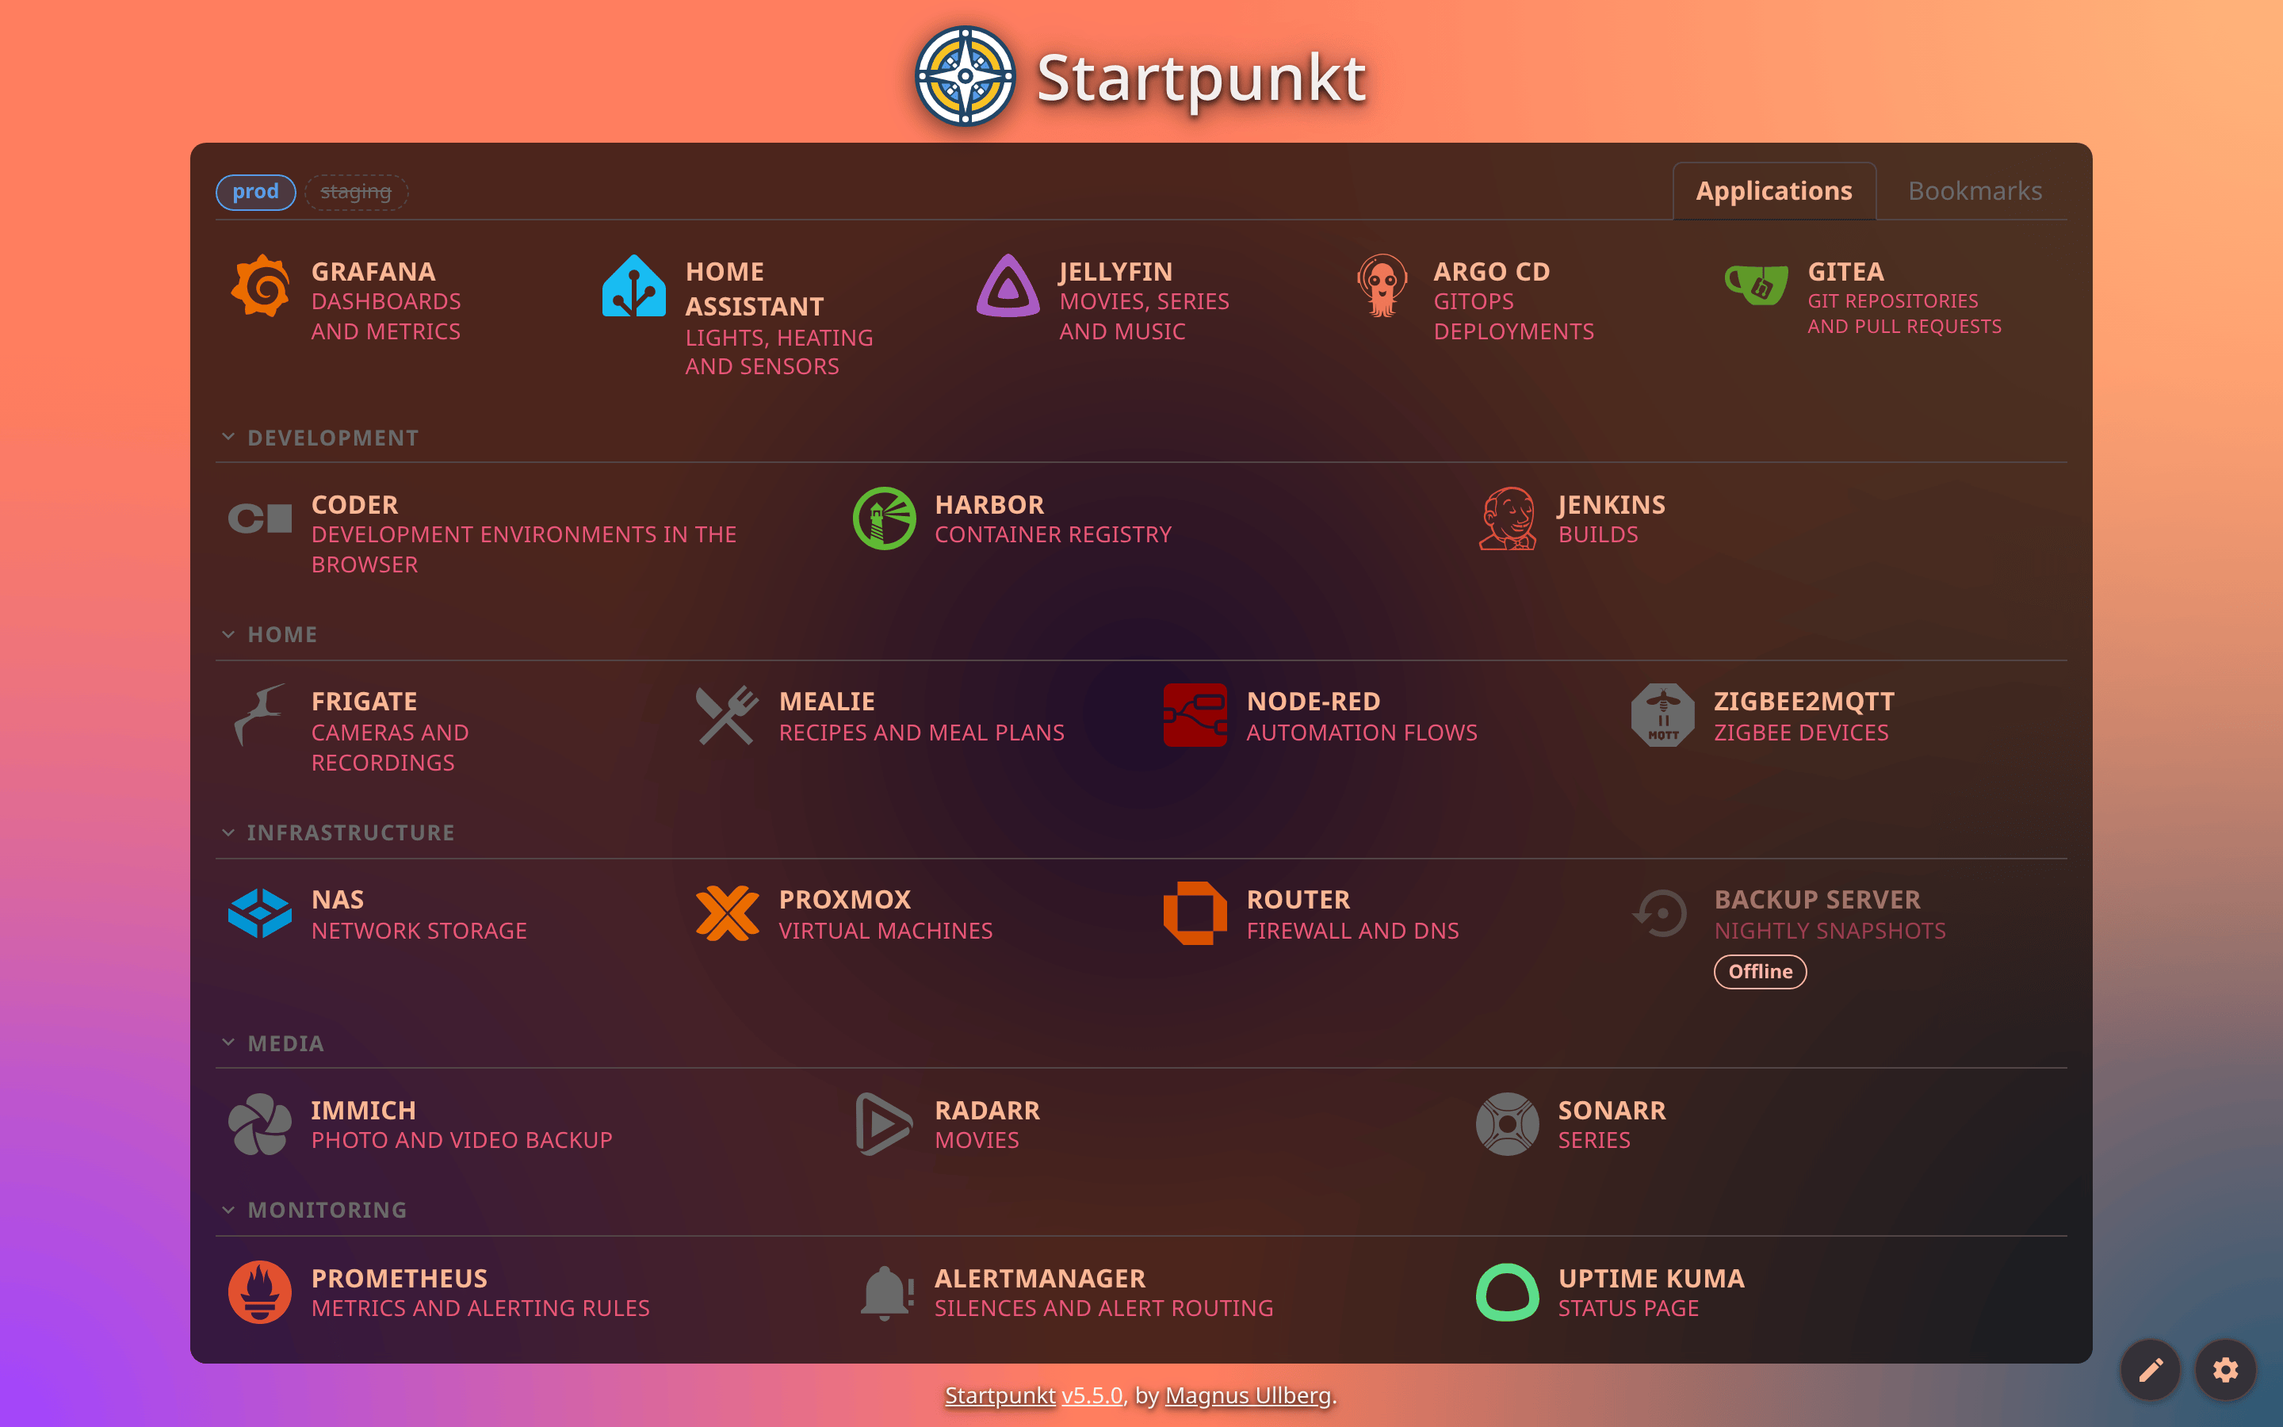
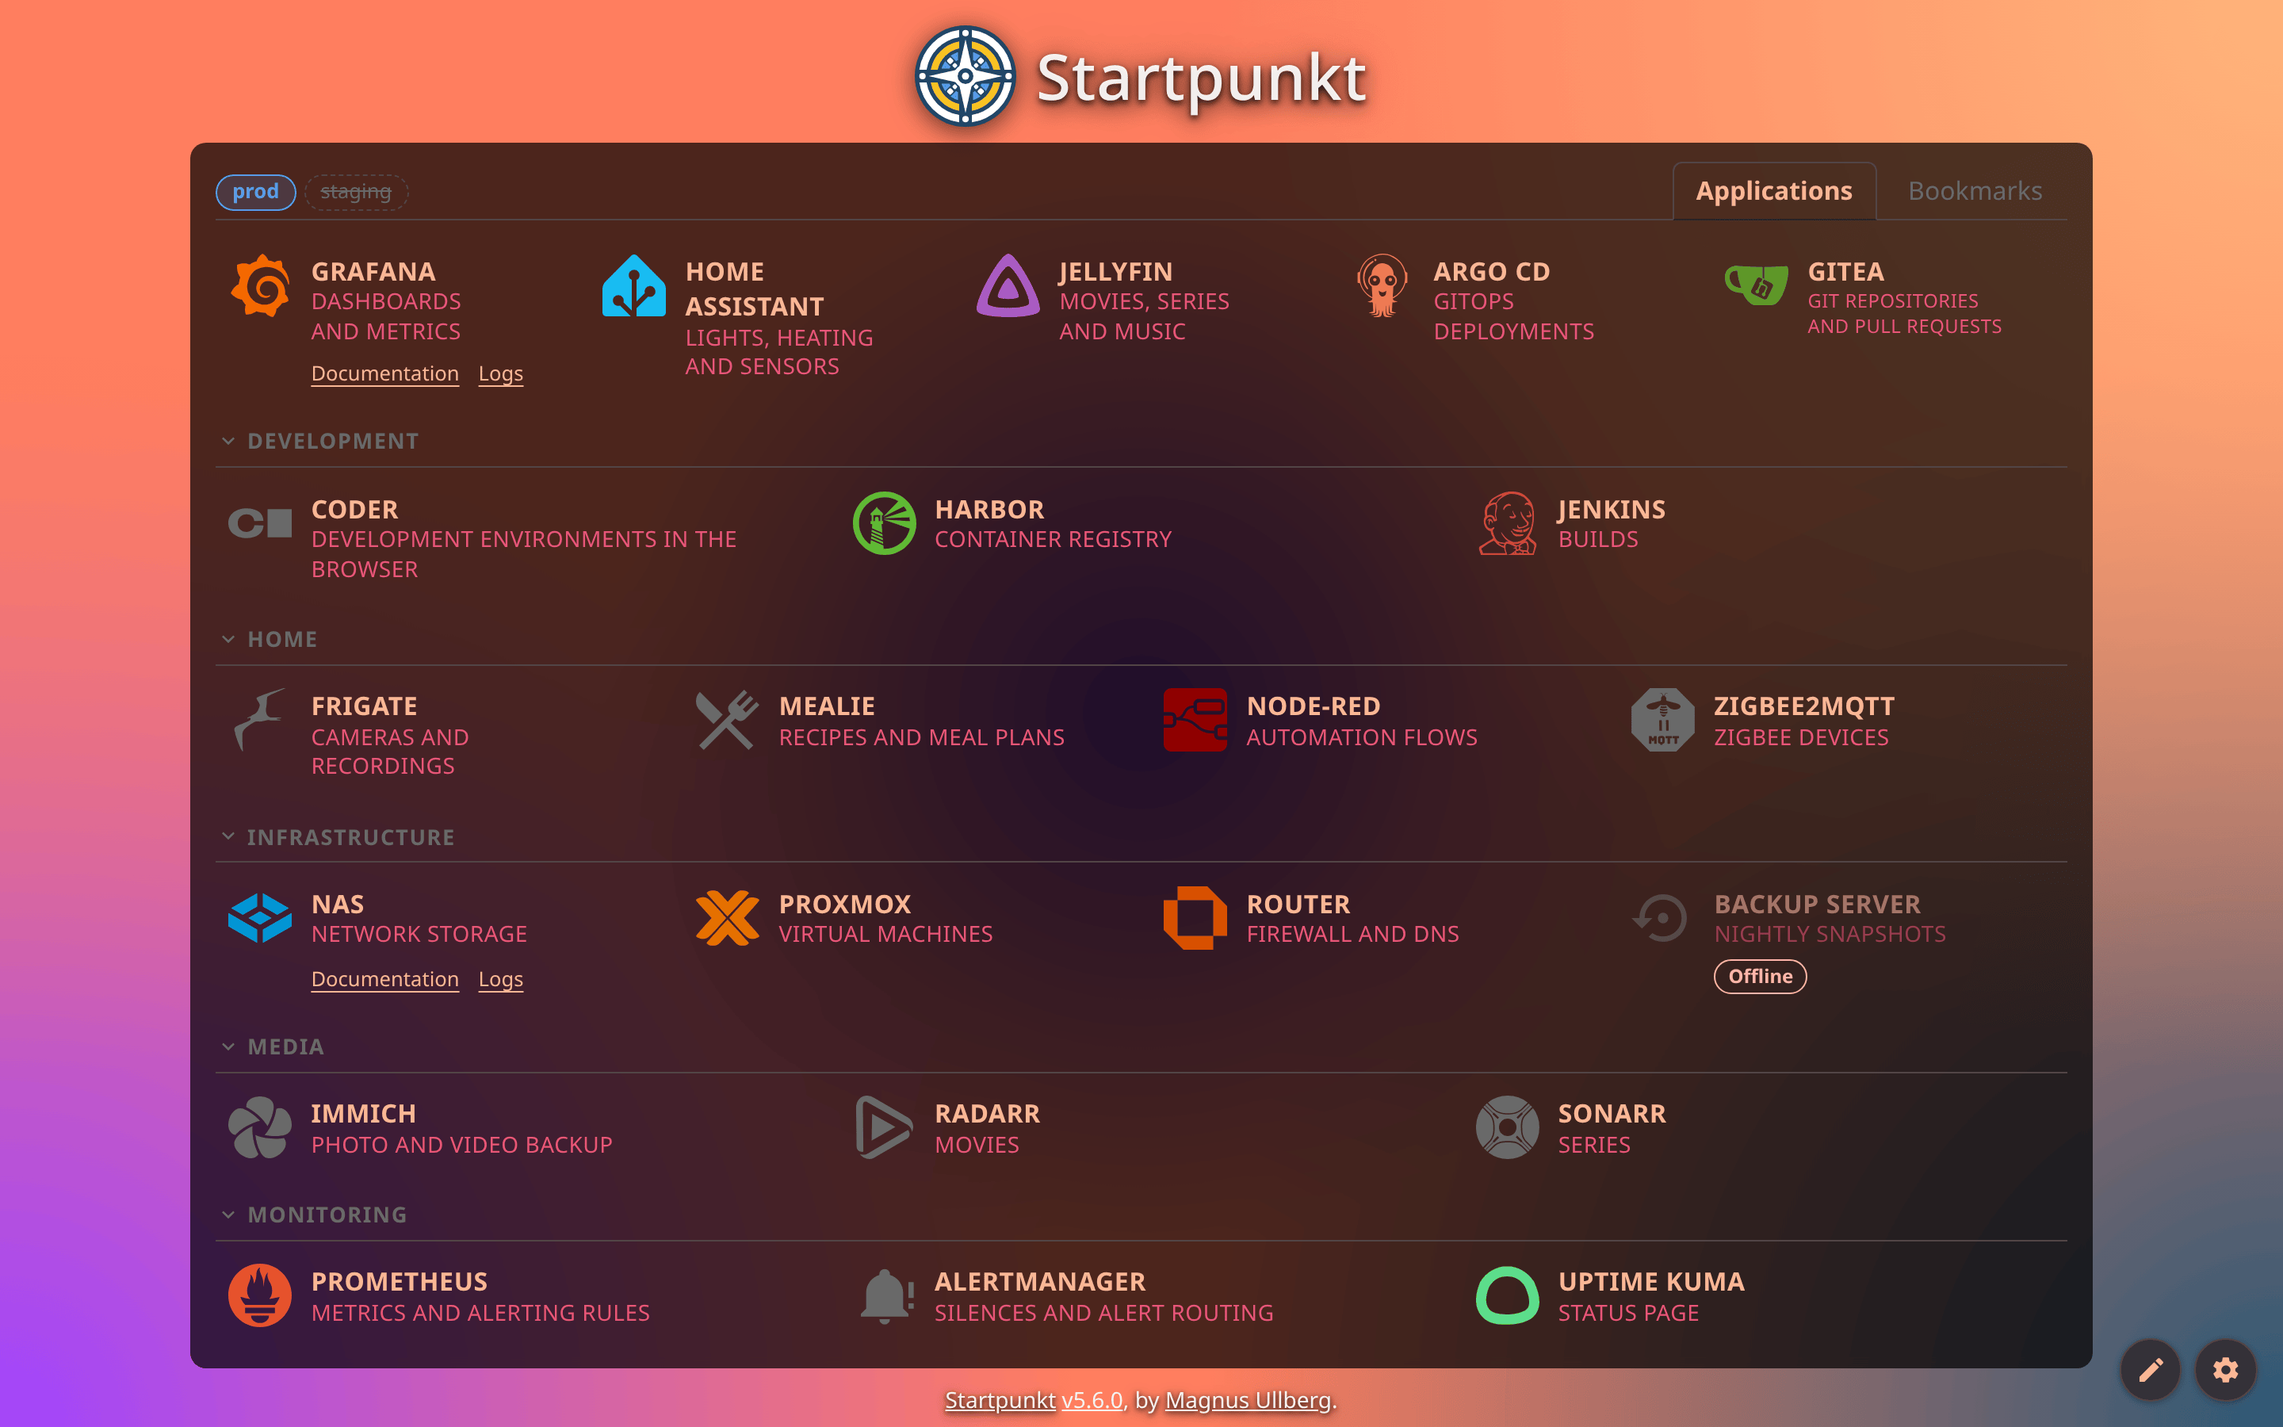
feat(search): match ordered characters in service names

diff --git a/web/src/search.ts b/web/src/search.ts
@@ -18,17 +18,21 @@ function words(text: string): string[] {
     .filter(Boolean);
 }
 
-// Finds tiles by name, as 4.x does: each word of the query must be the
-// start of a word in the tile's name. "ho as" finds "Home Assistant"; "ome"
-// does not. Descriptions, groups and addresses are not searched, because
-// matching on them returns most of the page for a short query.
-//
-// One addition: a word of the query may instead be the start of the tile's
-// cluster name, as long as another word matches the name. That lets
-// "grafana prod" pick one tile among several of the same name.
-//
-// Tiles whose name starts with the query come first; the rest keep the
-// order they came in.
+// Matches names using word prefixes first, then letters in their written
+// order: "osft" finds "OpenShift". One-letter searches still use prefixes
+// so they stay useful. A cluster may satisfy a query word only when at
+// least one other word matches the tile's name.
+function match(parts: string[], word: string): boolean {
+  if (parts.some((part) => part.startsWith(word))) return true;
+  if (word.length < 2) return false;
+  let next = 0;
+  for (const letter of parts.join('')) {
+    if (letter === word[next]) next++;
+    if (next === word.length) return true;
+  }
+  return false;
+}
+
 export function searchTiles(tiles: Tile[], query: string, limit = MAX_RESULTS): Tile[] {
   const wanted = words(query);
   if (wanted.length === 0) return [];
@@ -37,13 +41,16 @@ export function searchTiles(tiles: Tile[], query: string, limit = MAX_RESULTS): 
   tiles.forEach((tile, index) => {
     const name = words(tile.name);
     const cluster = words(tile.cluster);
-    const inName = (word: string) => name.some((part) => part.startsWith(word));
-    const inCluster = (word: string) => cluster.some((part) => part.startsWith(word));
+    const inName = (word: string) => match(name, word);
+    const inCluster = (word: string) => match(cluster, word);
     if (!wanted.some(inName) || !wanted.every((word) => inName(word) || inCluster(word))) return;
-    scored.push({ tile, score: name.join(' ').startsWith(whole) ? 0 : 1, index });
+    const fullName = name.join(' ');
+    const prefixes = wanted.every((word) => [...name, ...cluster].some((part) => part.startsWith(word)));
+    const score = fullName === whole ? 0 : fullName.startsWith(whole) ? 1 : prefixes ? 2 : 3;
+    scored.push({ tile, score, index });
   });
   return scored
     .sort((a, b) => a.score - b.score || a.index - b.index)
-    .slice(0, limit)
+    .slice(0, Math.max(0, limit))
     .map((entry) => entry.tile);
 }

diff --git a/web/src/search.test.ts b/web/src/search.test.ts
@@ -24,9 +24,29 @@ describe('searchTiles', () => {
     expect(names('gr do')).toEqual(['Grafana docs']);
   });
 
-  it('does not match the middle of a word', () => {
-    expect(names('lex')).toEqual([]);
-    expect(names('afana')).toEqual([]);
+  it('matches letters in order, including the middle of a word', () => {
+    expect(names('lex')).toEqual(['Plex']);
+    expect(names('afana')).toEqual(['Grafana', 'Grafana', 'Grafana docs']);
+    expect(names('xelp')).toEqual([]);
+    expect(searchTiles([tile({ name: 'OpenShift' })], 'Osft').map((t) => t.name)).toEqual(['OpenShift']);
+    expect(searchTiles([tile({ name: 'Home Assistant' })], 'hmasst')).toHaveLength(1);
+  });
+
+  it('ranks exact names, whole-name prefixes and word prefixes before fuzzy matches', () => {
+    const list = ['OpenShift', 'My Osft tools', 'Osft tools', 'Osft', 'Other Shift'].map((name) => tile({ name }));
+    expect(searchTiles(list, 'osft').map((t) => t.name)).toEqual([
+      'Osft', 'Osft tools', 'My Osft tools', 'OpenShift', 'Other Shift',
+    ]);
+  });
+
+  it('keeps input order for equally ranked fuzzy matches and supports fuzzy cluster qualifiers', () => {
+    const list = [
+      tile({ name: 'OpenShift A', cluster: 'production' }),
+      tile({ name: 'OpenShift B', cluster: 'development' }),
+      tile({ name: 'OpenShift C', cluster: 'production' }),
+    ];
+    expect(searchTiles(list, 'osft pdtn').map((t) => t.name)).toEqual(['OpenShift A', 'OpenShift C']);
+    expect(searchTiles(list, 'pdtn')).toEqual([]);
   });
 
   it('does not search descriptions, groups, tags or addresses', () => {

diff --git a/web/src/components/App.test.tsx b/web/src/components/App.test.tsx
@@ -701,6 +701,16 @@ describe('App', () => {
     expect(await screen.findByRole('dialog', { name: 'Settings' })).toBeTruthy();
   });
 
+  it('does not leave search stuck when a key is pressed before the first snapshot', async () => {
+    render(<App open={openFake} />);
+    fireEvent.keyDown(document.body, { key: 'g' });
+    expect(screen.queryByRole('dialog')).toBeNull();
+    act(() => FakeStream.last.emit('snapshot', serverState({ tiles: [tile({ name: 'Grafana' })] })));
+    fireEvent.keyDown(document.body, { key: 'g' });
+    expect(await screen.findByRole('dialog', { name: 'Search applications and bookmarks' })).toBeTruthy();
+    expect((screen.getByRole('combobox') as HTMLInputElement).value).toBe('g');
+  });
+
   it('does not open search while typing in a field', async () => {
     renderWith(serverState());
     fireEvent.click(screen.getByRole('button', { name: 'Settings' }));

diff --git a/web/src/components/App.tsx b/web/src/components/App.tsx
@@ -128,7 +128,7 @@ export function App({
 
   useEffect(() => {
     const onKeyDown = (event: KeyboardEvent) => {
-      if (dialogOpen.current) return;
+      if (dialogOpen.current || serverState.value === null) return;
       if (event.key === 'Escape' && editMode.value) {
         editMode.value = false;
         return;

diff --git a/docs/v5-design.md b/docs/v5-design.md
@@ -342,7 +342,7 @@ cluster B: informers ─> store ─> prober ─┤                              
 - A description is kept within a number of lines, two by default and one to three or unlimited by choice. One that is too long is first made smaller, in steps down to 70%, and only cut off with an ellipsis if it still does not fit; the whole text is then a tooltip.
 - The page has an edit mode, entered and left with a button in the bottom right corner and left with Escape as well. It is not remembered: a page that is opened is not in it. Outside it a tile offers its main link and any named secondary links, each independently reachable from the keyboard. In it every tile has its box, whatever the preference for boxes says, and shows its controls without having to be pointed at: the star that makes it a favorite and the buttons that move a favorite. In edit mode no tile is a link: a click is about the tile, not a way to the service. A tile that can be changed is one button, marked with a pencil, and a click anywhere on it opens its form. Any other tile is a button marked with a lock, which says why it cannot be changed here (editing is off, it belongs to another cluster, Argo CD or Helm deploys it, or it is made from another resource), names the resource behind it, and offers the link the tile otherwise is. The cluster pills of a combined card are not links in edit mode either. Favorites can be dragged only in edit mode. On an instance without an edit key the mode is entered freely; with one it takes the key, as described under access and editing.
 - A favorite is shown once: in the favorites row of its tab, in the visitor's order, and not in its group. The row has no heading, is as wide as its favorites need, and is centred. In edit mode the order is changed by dragging one favorite onto another, or with the two buttons on each favorite, which do the same from the keyboard and announce the new position.
-- As in 4.x there is no search field on the page. Spotlight search opens with `/`, with Ctrl+K, or by simply starting to type anywhere on the page, in which case it starts with what was typed. A touch screen, which has no keys to start typing on, gets a search button. The settings button is fixed in the bottom right corner of the window, next to the one for edit mode. The logo and the title are centred at the top, with no panel behind them. Results show each tile's icon and tags. As in 4.x it searches names only: each word of the query must be the start of a word in the name, so a short query stays short. A word may instead be the start of the cluster name, provided another word matches the name, which lets "grafana prod" pick one tile among several. A query that starts with `?` goes to the configured search engine.
+- As in 4.x there is no search field on the page. Spotlight search opens with `/`, with Ctrl+K, or by simply starting to type anywhere on the page, in which case it starts with what was typed. A touch screen, which has no keys to start typing on, gets a search button. The settings button is fixed in the bottom right corner of the window, next to the one for edit mode. The logo and the title are centred at the top, with no panel behind them. Results show each tile's icon and tags. It searches names by ordered character subsequences, ignoring case and accents: `Osft` finds `OpenShift`. Exact names rank first, then whole-name prefixes, word prefixes and fuzzy matches; ties preserve tile order. A one-character word matches only word prefixes. A word may instead match the cluster name, provided another word matches the name, which lets "grafana prod" pick one tile among several. A query that starts with `?` goes to the configured search engine.
 - Dialogs are native `dialog` elements, which keep focus inside, close on Escape and make the rest of the page inert. The settings dialog has one tab per area. The controls inside the dialogs, such as switches, selects, sliders, fields, buttons and tabs, are drawn by daisyUI, a library of component classes for Tailwind CSS. Both are used at build time only: the result is part of the page's stylesheet, so the Content-Security-Policy is unchanged and no script is added. The classes are put on native elements, which keep their roles and keyboard behaviour, and the library's colours are derived from the five colours of the palette. The page outside the dialogs is styled by hand as before.
 - The page fetches nothing but pictures from other hosts. The handwritten typeface is part of the bundle, not loaded from a font service, and the pattern is generated in the page. The mesh animation is off for visitors whose system asks for reduced motion.
 - v5 replaces what 4.x does, not how: a pattern text gives a different pattern than in 4.x, and stored 4.x preferences are not read.

diff --git a/docs/images/features/README.md b/docs/images/features/README.md
@@ -18,7 +18,7 @@ The dark theme. The favorites are in the row at the top, and the applications ar
 
 ![Search](03-search.png)
 
-Typing anywhere on the page opens the search with what was typed. A word finds the tiles with a name that has a word starting with it, and each result shows its cluster, group, description and whether it is an application or a bookmark. A query that starts with `?` goes to the configured search engine.
+Typing anywhere on the page opens the search with what was typed. Characters match in order within the name, so `Osft` finds `OpenShift`; prefix matches rank first, and each result shows its cluster, group, description and whether it is an application or a bookmark. A query that starts with `?` goes to the configured search engine.
 
 ## Favorites
 
@@ -127,3 +127,13 @@ In edit mode with the edit key, the plus button opens a form for a new applicati
 ![A newer release](21-update-ribbon.png)
 
 When the instance has found a newer release, a golden ribbon across the top right corner names it. A click on it lists what has changed since the running version.
+
+## Fuzzy search
+
+![Fuzzy search](22-fuzzy-search.png)
+
+`Osft` finds the OpenShift bookmark by matching its characters in order. Matching ignores case and accents. The original full-name and word-prefix matches rank ahead of looser matches.
+
+## Secondary links
+
+The Grafana and NAS tiles in the screenshots carry Documentation and Logs links. These are separate keyboard-reachable links below the primary destination. The application editor can add, change and remove them.

diff --git a/docs/roadmap.md b/docs/roadmap.md
@@ -13,7 +13,7 @@ To ask for one of these, or for something that is not here, open a [feature requ
 Small things that make what is there more dependable.
 
 - [ ] **A switch for type-to-search** (S). Opening search on any key is in the way of speech input and of some assistive tools. `/` and `Ctrl+K` stay.
-- [ ] **Smaller fixes on the page** (S). The search button, which is meant for touch screens, showing on every screen; group names in lower case in search results; a key pressed before the first tiles arrive, descriptions that do not refit when the text size changes, heading levels on a page with tabs, a visible mark on required fields, the footer and the corner buttons on a narrow screen, translated error messages from the editor, and the keyboard list on a Mac.
+- [ ] **Smaller fixes on the page** (S). The search button, which is meant for touch screens, showing on every screen; group names in lower case in search results; descriptions that do not refit when the text size changes, heading levels on a page with tabs, a visible mark on required fields, the footer and the corner buttons on a narrow screen, translated error messages from the editor, and the keyboard list on a Mac.
 - [ ] **Checks in CI** (S). `golangci-lint` and `govulncheck`, a linter for the page, rendering the chart against the Kubernetes schemas, Markdown and link checks, the pull request title, and the cutover test on a schedule.
 
 ## Later

diff --git a/README.md b/README.md
@@ -362,7 +362,7 @@ Tiles are never passed on a second time: an instance takes from a remote only wh
 
 <p align="center"><img src="docs/images/features/03-search.png" alt="Search results for a typed letter" width="80%"/></p>
 
-- **Search**: start typing, or press `/`, `Ctrl+K` or `Cmd+K`. A word finds the services whose name has a word that starts with it, accents aside, and a further word may name the cluster. `?` in front searches the web. A touch screen has a button for it.
+- **Search**: start typing, or press `/`, `Ctrl+K` or `Cmd+K`. Letters match in their written order, so `Osft` finds `OpenShift`, ignoring case and accents. Exact and prefix matches come first; a single letter matches word prefixes. A further word may name the cluster. `?` in front searches the web. A touch screen has a button for it.
 - **Edit mode**: the pencil in the bottom right corner shows the controls of the tiles, and the check mark that replaces it, or Escape, hides them again. In edit mode a click on a tile does not open the service: it opens the tile's form, or says why the tile cannot be changed from the page.
 - **Favorites**: in edit mode, the star on a tile puts it in a row at the top, which is reordered by dragging or with the buttons on each favorite.
 - **Tabs and groups**: applications and bookmarks are on a tab each. A group is collapsed with its heading, and stays that way.
